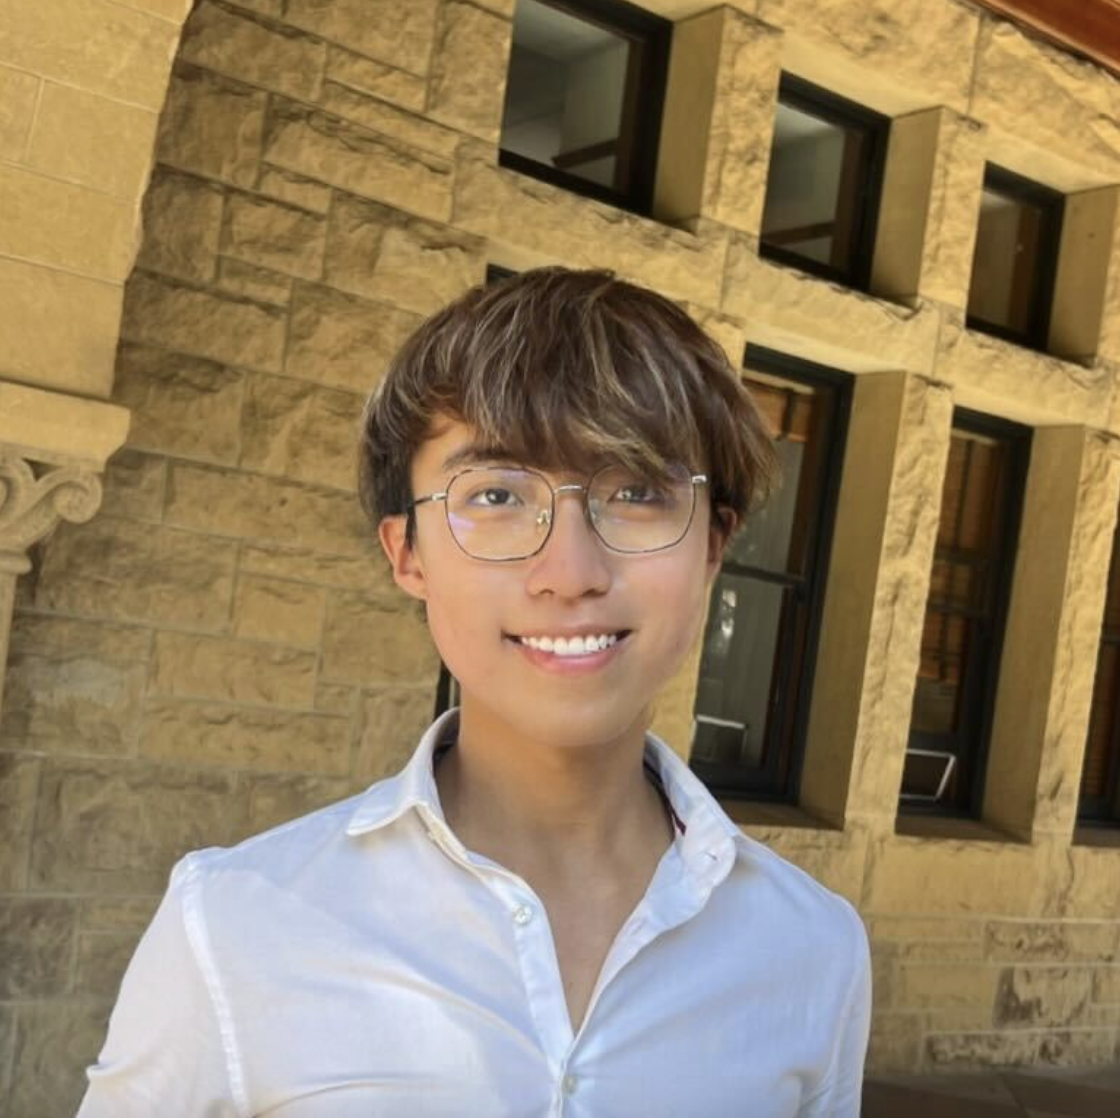
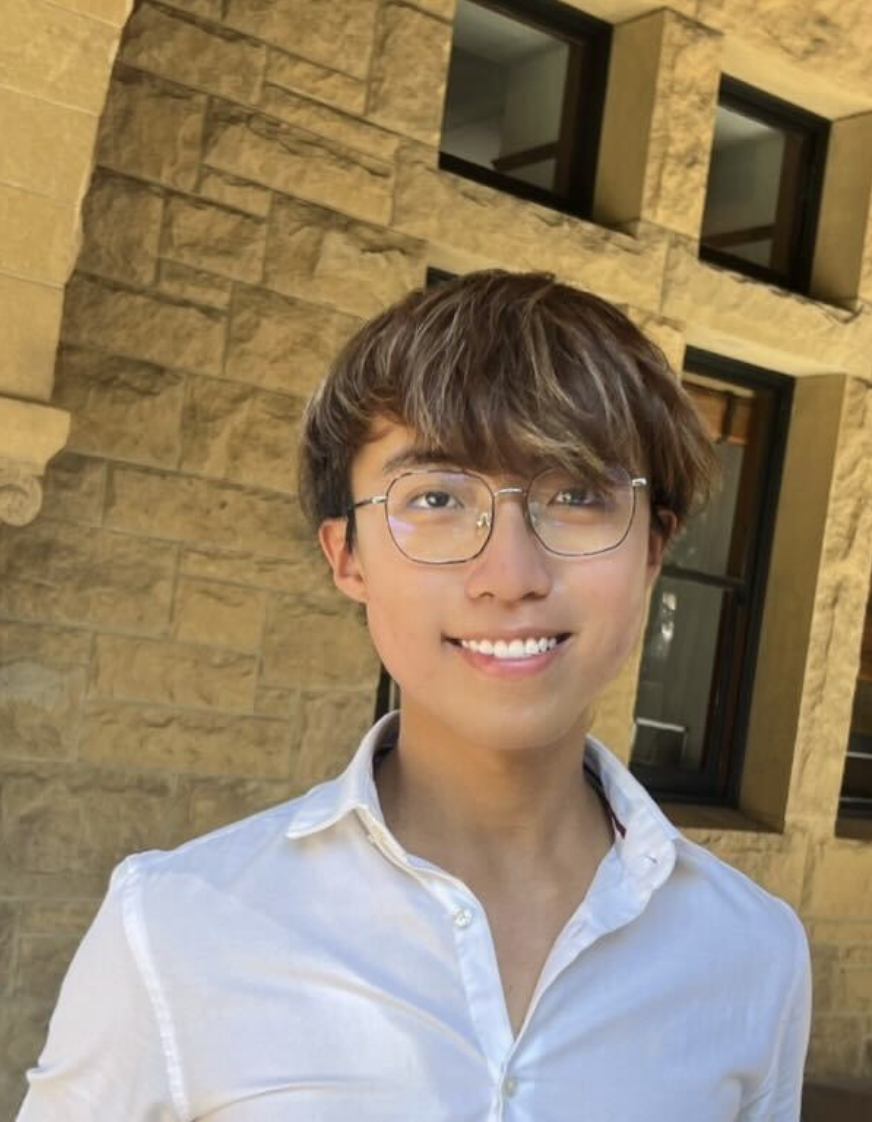
Update to the About Us Page

diff --git a/src/team.html b/src/team.html
@@ -39,7 +39,7 @@
                 </div>
             </div>
             <div class="grid-item">
-                <img src="images/ayushipatel.png" class="gridimg">
+                <img src="images/ayushi.png" class="gridimg">
             </div>
             <div class="grid-item">
                 <h2>Senior Liason - Hannah Lawry</h2>
@@ -56,7 +56,7 @@
                 </div>
             </div>
             <div class="grid-item">
-                <img src="images/hannah2.png" class="gridimg">
+                <img src="images/hannah.png" class="gridimg" id="specialcase">
             </div>
             <div class="grid-item">
                 <h2>Head of Technology - Ayush Jain</h2>
@@ -71,7 +71,7 @@
                 </div>
             </div>
             <div class="grid-item">
-                <img src="images/ayush2.png" class="gridimg">
+                <img src="images/ayush.png" class="gridimg">
             </div>
             <div class="grid-item">
                 <h2>Project Management Lead - Doreen Echeverri</h2>
@@ -102,7 +102,7 @@
                 </div>
             </div>
             <div class="grid-item">
-                <img src="images/shaun2.png" class="gridimg">
+                <img src="images/shaun.png" class="gridimg">
             </div>
             <div class="grid-item">
                 <h2>Co-Director of Outreach - Katherine Yu</h2>
@@ -117,7 +117,7 @@
                 </div>
             </div>
             <div class="grid-item">
-                <img src="images/katherine1.png" class="gridimg">
+                <img src="images/katherine.png" class="gridimg">
             </div>
         </div>
     </section>

diff --git a/src/teamstyles.css b/src/teamstyles.css
@@ -137,6 +137,11 @@ h1{
     
 }
 
+#specialcase{
+    height: 330px;
+    width: 300px;
+}
+
 /* Social REACH OUT */
 .socials-about img{
     margin-top: 30px;
